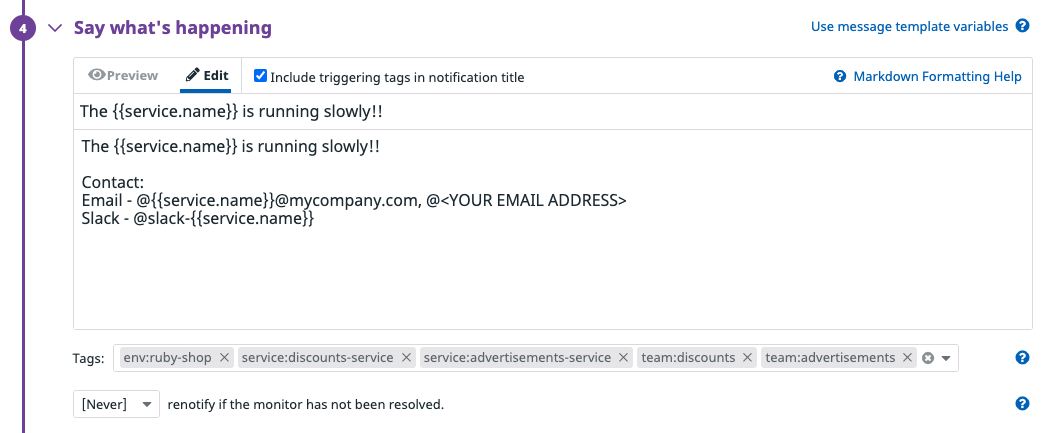
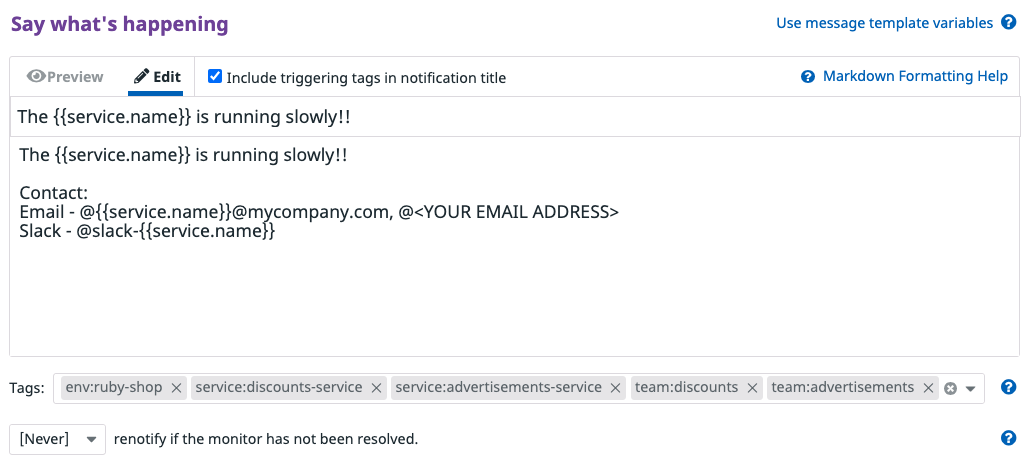
cleaned up images in assets

Changed region(s): [[0.0, 0.0, 0.9951, 1.0], [0.7464, 0.03, 0.9951, 0.0901], [0.964, 0.9007, 0.9951, 0.9607]]

diff --git a/taggingv2/apptagging/step3.md b/taggingv2/apptagging/step3.md
@@ -30,7 +30,7 @@ With the help of tags, you can create <a href="https://docs.datadoghq.com/monito
     
     For **Tags**, enter `env:ruby-shop`{{copy}}, `service:discounts-service`{{copy}}, `service:advertisements-service`{{copy}}, `team:discounts`{{copy}}, `team:advertisements`{{copy}}. 
     
-    ![alert-message](apptagging/assets/alert-message3.png)
+    ![alert-message](apptagging/assets/alert-message.png)
 
 8. Expand **Notify your team**. The field is already populated with the `@` selections in **Say what's happening**. 
 
@@ -44,13 +44,13 @@ With the help of tags, you can create <a href="https://docs.datadoghq.com/monito
 
     A message appears in the window: `Test notifications sent with group $service:<service.name>`. 
     
-    ![alert-tested](apptagging/assets/alert-tested2.png)
+    ![alert-tested](apptagging/assets/alert-tested.png)
 
 11. Check your email at the address included in **Notify your team**. You should see an email with the subject `[Monitor Alert] Triggered: [TEST] The <service.name> is running slowly!!`.
 
 12. Open the email to view its details. You will see that the `{{service.name}}` has been replaced with the actual service name throughout the email. 
 
-    ![alert-testemail](apptagging/assets/alert-testemail3.png)
+    ![alert-testemail](apptagging/assets/alert-testemail.png)
 
 13. In Datadog, close the test notifcation window and click **Save** to save the monitor. 
 

diff --git a/taggingv2/apptagging/step4.md b/taggingv2/apptagging/step4.md
@@ -34,7 +34,11 @@ Tags can also act as Facets for various lists throughout Datadog. Let's create t
 
 11. Click **New Test** in the upper right and follow steps 2 - 7 above with the following changes. In **Make a request**, name the new test `Test on Storedog Home Page 2` and do **not** assign the `service:store-frontend` tag.
 
-12. Navigate to the Synthetics list and view the **ENV** and **TAGS** facet. Notice the number of tests associated with `env:ruby-shop` and `service:store-frontend`.
+12. Navigate to the Synthetics list and view the **ENV** and **TAGS** facet. 
+
+    Notice the number of tests associated with `env:ruby-shop` and `service:store-frontend`.
+
+    ![syn-testfacets](apptagging/assets/syn-testfacets.png)
 
 13. In the search field above the list of facets, enter `tag:service:store-frontend`{{copy}}. Only the `Test on Storedog Home Page` test appears in the list.
 
